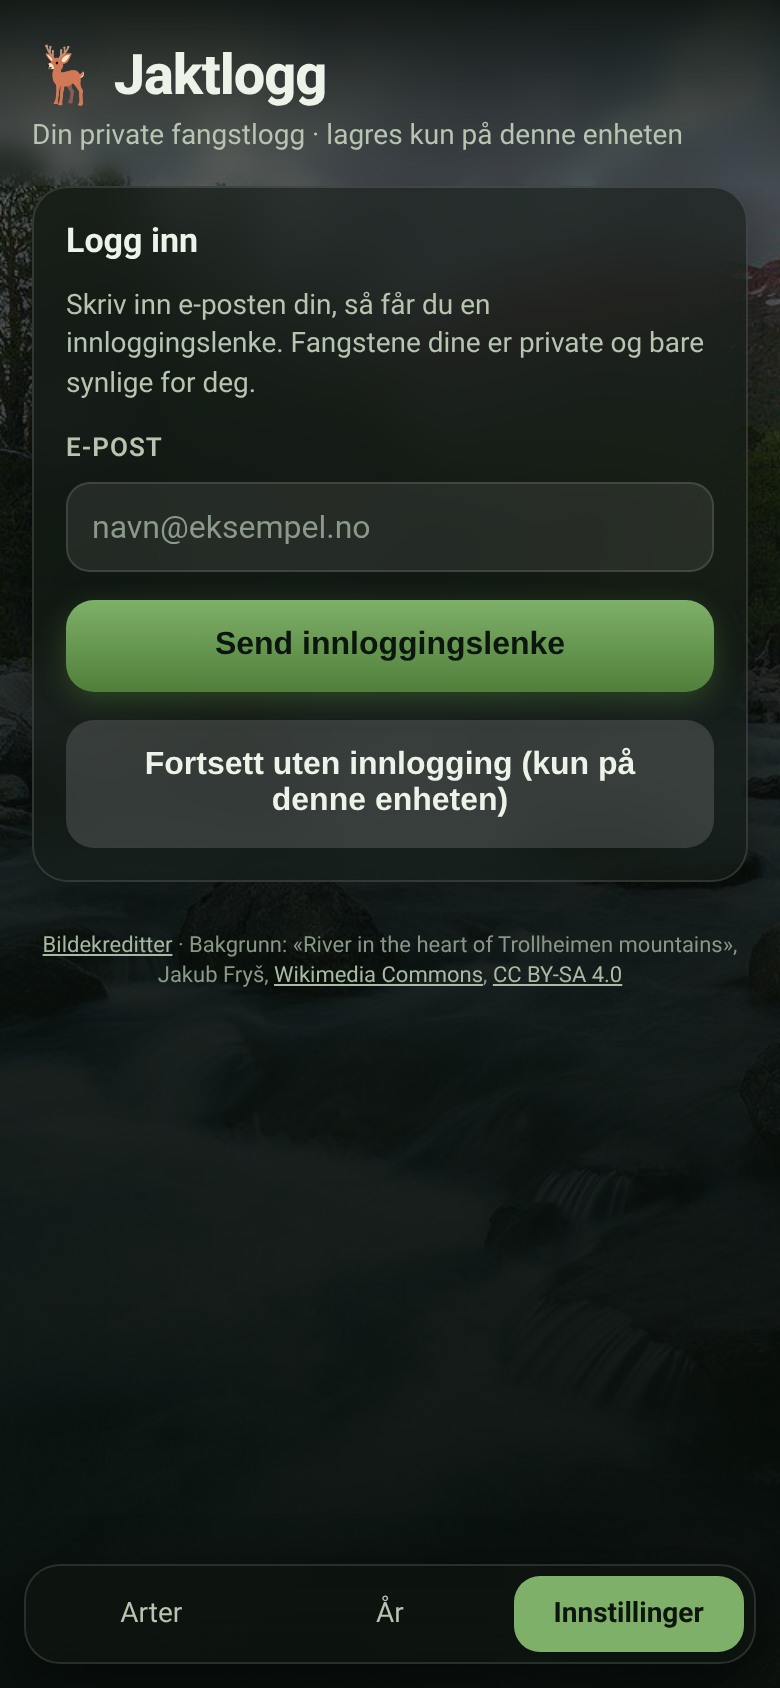
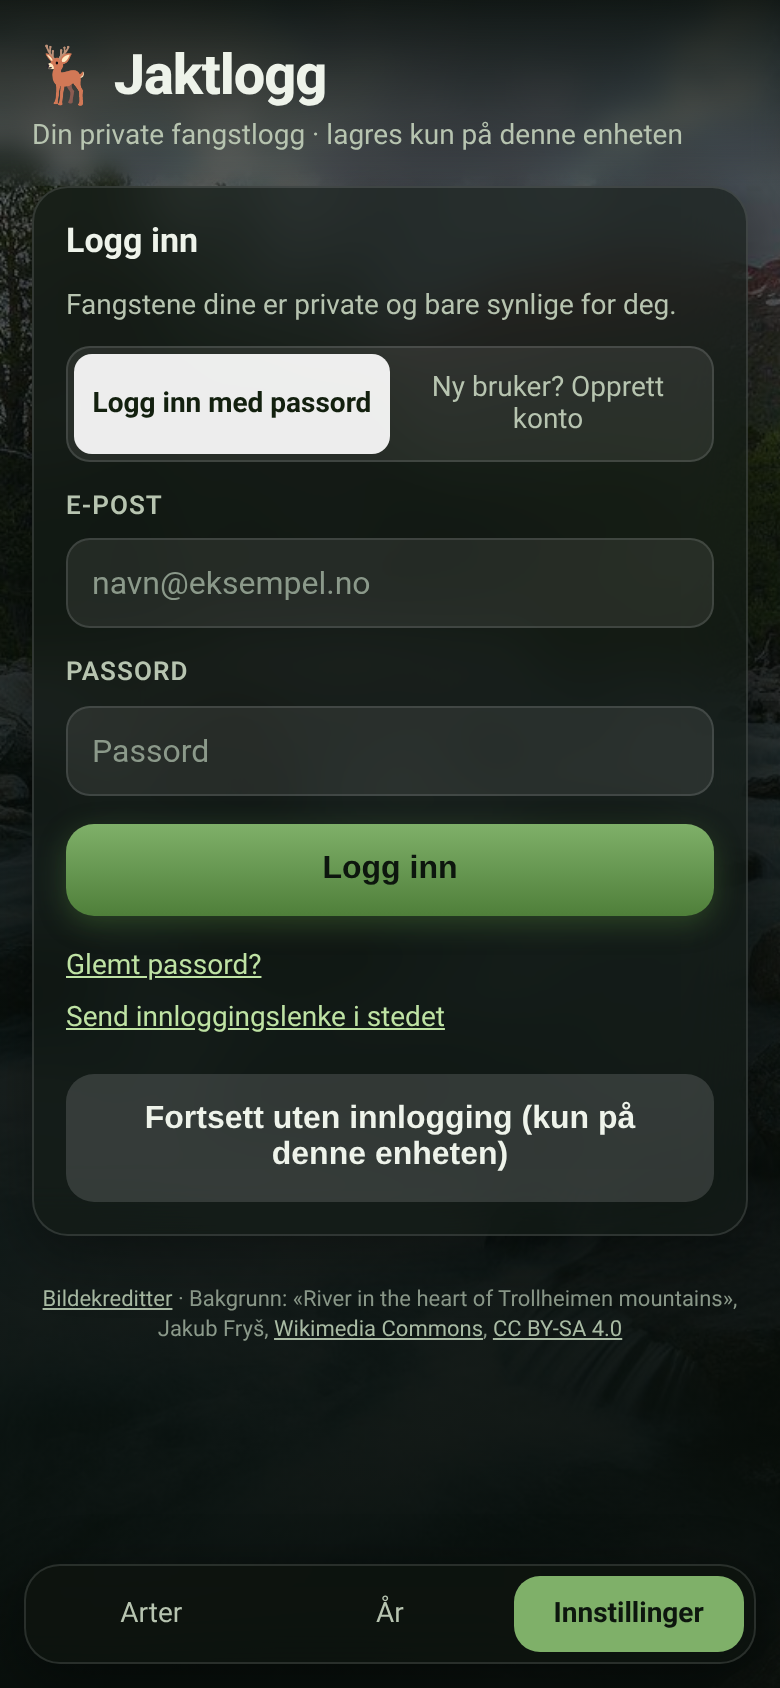
Innlogging med passord (standard), opprett konto, glemt passord/PASSWORD_RECOVERY, sett passord i Innstillinger, e-postlenke som reserve, norske feilmeldinger, URL-rensing; README og skjermbilder 10-11

Changed region(s): [[0.0308, 0.154, 0.9231, 0.7393], [0.1846, 0.7701, 0.8, 0.8009], [0.0923, 0.7701, 0.1231, 0.8009]]

diff --git a/index.html b/index.html
@@ -28,7 +28,7 @@ input[type=file]{padding:10px}input[type=date]{color-scheme:dark}
 .card div{padding:8px 10px 10px;font-size:14px}.card small{color:var(--m);display:block}.card .pin{padding:2px 0 0;font-size:12px;color:var(--g);white-space:nowrap;overflow:hidden;text-overflow:ellipsis}
 .cnt{background:var(--g);color:#0d160e;border-radius:999px;padding:1px 10px;font-size:13px;font-weight:700}
 .seg{display:flex;background:rgba(255,255,255,.08);border:1px solid var(--line);border-radius:12px;padding:3px;margin-top:12px}
-.seg button{flex:1;border:0;background:none;color:var(--m);padding:9px;border-radius:9px;font-size:14px;font-family:inherit}.seg .on{background:rgba(255,255,255,.92);color:#13200f;font-weight:700}
+.lk a{color:#bfe3a4}.seg button{flex:1;border:0;background:none;color:var(--m);padding:9px;border-radius:9px;font-size:14px;font-family:inherit}.seg .on{background:rgba(255,255,255,.92);color:#13200f;font-weight:700}
 .tabs{position:fixed;bottom:12px;left:50%;transform:translateX(-50%);width:calc(100% - 24px);max-width:366px;display:flex;gap:4px;padding:5px;background:rgba(14,20,15,.82);border:1px solid var(--line);border-radius:18px;backdrop-filter:blur(16px);box-shadow:0 8px 30px rgba(0,0,0,.45);z-index:6}
 .tabs button{flex:1;border:0;background:none;padding:11px;font-size:15px;color:var(--m);border-radius:13px;font-family:inherit}.tabs .on{color:#0d160e;background:var(--g);font-weight:700}
 .modal{position:fixed;inset:0;background:rgba(0,0,0,.6);display:none;align-items:flex-end;justify-content:center;z-index:9}.modal.open{display:flex}
@@ -193,7 +193,7 @@ let Store=LocalStore;
 async function initBackend(){const c=cfg();sb=null;sbUser=null;Store=LocalStore;if(!c)return 'local';
  try{await loadLib();sb=window.supabase.createClient(c.url,c.key,{auth:{persistSession:true,detectSessionInUrl:true}});
   const{data}=await sb.auth.getSession();sbUser=data.session&&data.session.user;
-  sb.auth.onAuthStateChange((_e,sess)=>{const was=!!sbUser;sbUser=sess&&sess.user;Store=sbUser?SupabaseStore:LocalStore;if(was!==!!sbUser)setTab(tab)});
+  sb.auth.onAuthStateChange((ev,sess)=>{const was=!!sbUser;sbUser=sess&&sess.user;Store=sbUser?SupabaseStore:LocalStore;if(ev==='PASSWORD_RECOVERY'){RECOVERY=true;setTimeout(renderRecovery,0);return}if(was!==!!sbUser&&!RECOVERY)setTab(tab)});
   if(sbUser){Store=SupabaseStore;return 'server'}return 'login'}catch(e){console.warn(e);return 'local'}}
 const modeText=()=>sbUser?`Lagres privat på din server · ${esc(sbUser.email)}`:(cfg()?'Ikke innlogget · lagres kun på denne enheten':'Din private fangstlogg · lagres kun på denne enheten');
 
@@ -205,29 +205,78 @@ async function renderSettings(){const c=cfg()||{url:'',key:''};const n=(await Lo
  <p style="color:var(--m);font-size:12px">Bruk kun den offentlige anon-nøkkelen. Lim aldri inn service_role- eller secret-nøkkelen.</p>
  <div class="maprow"><button class="btn" id="ss" style="flex:1">Lagre</button>${cfg()?'<button class="btn sec" id="sx">Koble fra</button>':''}</div><p id="smsg" style="font-size:14px;color:var(--m)"></p></div>
  <div class="panel" style="margin-top:14px"><h2 style="margin-top:0">Konto</h2><p style="color:var(--m);font-size:14px;margin:0 0 10px">${modeText()}</p>
- ${!cfg()?'<p style="font-size:14px;color:var(--m)">Legg inn Project URL og nøkkel over for å kunne logge inn.</p>':sbUser?`<button class="btn sec" id="lo">Logg ut</button>${n?`<button class="btn" id="mig" style="margin-top:8px">Flytt lokale fangster til server (${n})</button>`:''}<p id="mmsg" style="font-size:14px;color:var(--m)"></p>`:'<button class="btn" id="li">Logg inn</button>'}</div>`;
- $('ss').onclick=async()=>{const url=$('su').value.trim().replace(/\/+$/,''),key=$('sk').value.trim();
+ ${!cfg()?'<p style="font-size:14px;color:var(--m)">Legg inn Project URL og nøkkel over for å kunne logge inn.</p>':sbUser?`<form id="spf" style="margin-bottom:10px"><label>Sett passord (for innlogging uten e-postlenke)<input id="sp1" type="password" minlength="6" required autocomplete="new-password" placeholder="Nytt passord, minst 6 tegn"></label><input id="sp2" type="password" minlength="6" required autocomplete="new-password" placeholder="Gjenta passord" style="margin-top:6px"><button class="btn" style="margin-top:8px">Sett passord</button><p id="spm" style="font-size:14px;color:var(--m)"></p></form><button class="btn sec" id="lo">Logg ut</button>${n?`<button class="btn" id="mig" style="margin-top:8px">Flytt lokale fangster til server (${n})</button>`:''}<p id="mmsg" style="font-size:14px;color:var(--m)"></p>`:'<button class="btn" id="li">Logg inn</button>'}</div>`;
+ $('ss').onclick=async()=>{const url=$('su').value.trim().replace(/\/+$/,'').replace(/\/(rest|auth|storage)\/v1.*$/i,'').replace(/\/+$/,''),key=$('sk').value.trim();
   if(!/^https:\/\/.+/.test(url)||!key){$('smsg').textContent='Fyll inn både URL og nøkkel.';return}
   if(keyRole(key)==='service_role'){$('smsg').textContent='Dette er en service_role/secret-nøkkel. Den skal aldri brukes i appen. Bruk anon-nøkkelen.';return}
   localStorage.setItem(CFG_KEY,JSON.stringify({url,key}));const m=await initBackend();$('smsg').textContent=m==='local'?'Kunne ikke koble til. Sjekk URL og nøkkel.':'Lagret.';if(m==='login')renderLogin();else renderSettings()};
  if($('sx'))$('sx').onclick=async()=>{if(sb)await sb.auth.signOut().catch(()=>{});localStorage.removeItem(CFG_KEY);await initBackend();renderSettings();$('hsub').textContent=modeText()};
- if($('li'))$('li').onclick=renderLogin;
+ if($('li'))$('li').onclick=()=>renderLogin();
+ if($('spf'))$('spf').onsubmit=async ev=>{ev.preventDefault();const a=$('sp1').value;if(a.length<6)return $('spm').textContent='Passordet må ha minst 6 tegn.';if(a!==$('sp2').value)return $('spm').textContent='Passordene er ikke like.';$('spm').textContent='Lagrer …';const{error}=await sb.auth.updateUser({password:a});$('spm').textContent=error?errNo(error):'Passordet er satt. Du kan nå logge inn med e-post og passord.';if(!error)$('spf').reset()};
  if($('lo'))$('lo').onclick=async()=>{await sb.auth.signOut();sbUser=null;Store=LocalStore;renderSettings();$('hsub').textContent=modeText()};
  if($('mig'))$('mig').onclick=async()=>{if(!confirm(`Flytte ${n} lokale fangster til serveren? De slettes fra enheten når de er lastet opp.`))return;
   const list=await LocalStore.list();let ok=0;for(const e of list){try{$('mmsg').textContent=`Laster opp ${ok+1} av ${list.length} …`;await SupabaseStore.add(e);await LocalStore.delete(e.id);ok++}catch(err){$('mmsg').textContent=`Stoppet etter ${ok}: ${err.message}`;return}}
   $('mmsg').textContent=`Ferdig: ${ok} fangster flyttet.`;setTimeout(renderSettings,1200)};
  $('hsub').textContent=modeText();scrollTo(0,0)}
 
-function renderLogin(){$('view').innerHTML=`<div class="panel"><h2 style="margin-top:0">Logg inn</h2>
- <p style="color:var(--m);font-size:14px;margin:0">Skriv inn e-posten din, så får du en innloggingslenke. Fangstene dine er private og bare synlige for deg.</p>
- <form id="lf"><label>E-post<input id="em" type="email" required placeholder="navn@eksempel.no" autocomplete="email"></label>
- <button class="btn" style="margin-top:14px">Send innloggingslenke</button></form><p id="lmsg" style="font-size:14px;color:var(--m)"></p>
+const PAGE_URL=location.origin+location.pathname;
+let HASH_ERR=(()=>{const q=new URLSearchParams(location.hash.slice(1)+'&'+location.search.slice(1));const d=q.get('error_description')||q.get('error');if(d){history.replaceState(null,'',PAGE_URL)}return d?{message:d.replace(/\+/g,' '),code:q.get('error_code')||''}:null})();
+let RECOVERY=/type=recovery/.test(location.hash);
+function errNo(e){if(!e)return '';const m=((e.code||'')+' '+(e.message||e)).toLowerCase();
+ if(/rate.?limit|over_email_send_rate|too many/.test(m))return 'For mange e-poster, vent en time eller bruk passord.';
+ if(/invalid.?(login|credentials)|invalid_credentials/.test(m))return 'Feil e-post eller passord.';
+ if(/not.?confirmed|email_not_confirmed/.test(m))return 'E-posten er ikke bekreftet ennå. Trykk på lenken i bekreftelses-e-posten, eller slå av «Confirm email» i Supabase (Authentication → Providers → Email).';
+ if(/already.?(registered|exists)|user_already_exists|email_exists/.test(m))return 'Det finnes allerede en bruker med denne e-posten. Logg inn med passord, eller bruk «Glemt passord».';
+ if(/otp_expired|expired|invalid.*link|access_denied/.test(m))return 'Lenken er utløpt eller ugyldig. Logg inn med passord, eller be om en ny lenke.';
+ if(/weak|at least 6|password should/.test(m))return 'Passordet er for svakt (minst 6 tegn).';
+ if(/same_password|different from the old/.test(m))return 'Det nye passordet må være forskjellig fra det gamle.';
+ if(/signup.*disabled|signups not allowed/.test(m))return 'Nye brukere er slått av i Supabase-prosjektet.';
+ if(/failed to fetch|network/.test(m))return 'Fikk ikke kontakt med serveren. Sjekk nettet og Project URL.';
+ return 'Feil: '+(e.message||e)}
+const P=(id,t)=>`<p id="${id}" style="font-size:14px;color:var(--m)">${t||''}</p>`;
+function renderLogin(mode,msg){mode=mode||'pw';if(!msg&&HASH_ERR){msg=errNo(HASH_ERR);HASH_ERR=null}
+ const tabs=`<div class="seg" style="margin:10px 0 4px"><button type="button" id="mpw" class="${mode==='pw'?'on':''}">Logg inn med passord</button><button type="button" id="msu" class="${mode==='su'?'on':''}">Ny bruker? Opprett konto</button></div>`;
+ let body='';
+ if(mode==='pw')body=`<form id="lf"><label>E-post<input id="em" type="email" required placeholder="navn@eksempel.no" autocomplete="email"></label>
+ <label>Passord<input id="pw" type="password" required autocomplete="current-password" placeholder="Passord"></label>
+ <button class="btn" style="margin-top:14px">Logg inn</button></form>
+ <p class="lk" style="font-size:14px;margin:12px 0 0;line-height:1.9"><a href="#" id="fg">Glemt passord?</a><br><a href="#" id="ml">Send innloggingslenke i stedet</a></p>`;
+ else if(mode==='su')body=`<form id="lf"><label>E-post<input id="em" type="email" required placeholder="navn@eksempel.no" autocomplete="email"></label>
+ <label>Passord (minst 6 tegn)<input id="pw" type="password" required minlength="6" autocomplete="new-password"></label>
+ <label>Gjenta passord<input id="pw2" type="password" required minlength="6" autocomplete="new-password"></label>
+ <button class="btn" style="margin-top:14px">Opprett konto</button></form>
+ <p style="font-size:13px;color:var(--m);margin:10px 0 0">Kontoen opprettes i ditt eget Supabase-prosjekt. Er «Confirm email» på, må e-posten bekreftes én gang.</p>`;
+ else if(mode==='fg')body=`<form id="lf"><p style="font-size:14px;color:var(--m);margin:6px 0 0">Vi sender en lenke for å velge nytt passord.</p><label>E-post<input id="em" type="email" required placeholder="navn@eksempel.no" autocomplete="email"></label>
+ <button class="btn" style="margin-top:14px">Send lenke for nytt passord</button></form><p class="lk" style="font-size:14px;margin:10px 0 0"><a href="#" id="bk">← Tilbake til innlogging</a></p>`;
+ else body=`<form id="lf"><p style="font-size:14px;color:var(--m);margin:6px 0 0">Du får en innloggingslenke på e-post. Supabase begrenser hvor mange e-poster som kan sendes per time.</p><label>E-post<input id="em" type="email" required placeholder="navn@eksempel.no" autocomplete="email"></label>
+ <button class="btn" style="margin-top:14px">Send innloggingslenke</button></form><p class="lk" style="font-size:14px;margin:10px 0 0"><a href="#" id="bk">← Logg inn med passord</a></p>`;
+ $('view').innerHTML=`<div class="panel"><h2 style="margin-top:0">${mode==='su'?'Opprett konto':mode==='fg'?'Glemt passord':'Logg inn'}</h2>
+ <p style="color:var(--m);font-size:14px;margin:0">Fangstene dine er private og bare synlige for deg.</p>${mode==='pw'||mode==='su'?tabs:''}${body}${P('lmsg',msg)}
  <button class="btn sec" id="lb" style="margin-top:6px">Fortsett uten innlogging (kun på denne enheten)</button></div>`;
+ const go=(m)=>e=>{e&&e.preventDefault();renderLogin(m)};
+ if($('mpw'))$('mpw').onclick=go('pw');if($('msu'))$('msu').onclick=go('su');if($('fg'))$('fg').onclick=go('fg');if($('ml'))$('ml').onclick=go('ml');if($('bk'))$('bk').onclick=go('pw');
  $('lb').onclick=()=>setTab('arter');
- $('lf').onsubmit=async ev=>{ev.preventDefault();if(!sb){$('lmsg').textContent='Supabase er ikke satt opp under Innstillinger.';return}
-  $('lmsg').textContent='Sender …';const{error}=await sb.auth.signInWithOtp({email:$('em').value.trim(),options:{emailRedirectTo:location.origin+location.pathname}});
-  $('lmsg').textContent=error?'Feil: '+error.message:'Sjekk e-posten din og trykk på lenken for å logge inn.'};scrollTo(0,0)}
+ const say=t=>$('lmsg').textContent=t;
+ $('lf').onsubmit=async ev=>{ev.preventDefault();if(!sb){say('Supabase er ikke satt opp under Innstillinger.');return}
+  const email=$('em').value.trim(),btn=$('lf').querySelector('button');btn.disabled=true;say('Vent …');
+  try{
+   if(mode==='pw'){const{error}=await sb.auth.signInWithPassword({email,password:$('pw').value});if(error)return say(errNo(error));sbUser=(await sb.auth.getUser()).data.user;Store=SupabaseStore;$('hsub').textContent=modeText();setTab('arter')}
+   else if(mode==='su'){const pw=$('pw').value;if(pw.length<6)return say('Passordet må ha minst 6 tegn.');if(pw!==$('pw2').value)return say('Passordene er ikke like.');
+    const{data,error}=await sb.auth.signUp({email,password:pw,options:{emailRedirectTo:PAGE_URL}});if(error)return say(errNo(error));
+    if(data.session){sbUser=data.session.user;Store=SupabaseStore;$('hsub').textContent=modeText();setTab('arter')}
+    else if(data.user&&Array.isArray(data.user.identities)&&!data.user.identities.length)say(errNo({code:'user_already_exists'}));
+    else say('Kontoen er opprettet, men «Confirm email» er på i Supabase. Bekreft én gang via lenken i e-posten, og logg deretter inn med passord. For en personlig app kan du i stedet slå av «Confirm email» under Authentication → Providers → Email.')}
+   else if(mode==='fg'){const{error}=await sb.auth.resetPasswordForEmail(email,{redirectTo:PAGE_URL});say(error?errNo(error):'Sjekk e-posten din og trykk på lenken for å velge nytt passord.')}
+   else{const{error}=await sb.auth.signInWithOtp({email,options:{emailRedirectTo:PAGE_URL}});say(error?errNo(error):'Sjekk e-posten din og trykk på lenken for å logge inn.')}
+  }finally{btn.disabled=false}};scrollTo(0,0)}
+function renderRecovery(){RECOVERY=false;tab='inn';['arter','ar','inn'].forEach(x=>$('t-'+x).classList.toggle('on',x==='inn'));
+ $('view').innerHTML=`<div class="panel"><h2 style="margin-top:0">Velg nytt passord</h2><form id="rf">
+ <label>Nytt passord (minst 6 tegn)<input id="np" type="password" required minlength="6" autocomplete="new-password"></label>
+ <label>Gjenta passord<input id="np2" type="password" required minlength="6" autocomplete="new-password"></label>
+ <button class="btn" style="margin-top:14px">Lagre nytt passord</button></form>${P('rmsg')}</div>`;
+ $('rf').onsubmit=async ev=>{ev.preventDefault();const pw=$('np').value;if(pw.length<6)return $('rmsg').textContent='Passordet må ha minst 6 tegn.';if(pw!==$('np2').value)return $('rmsg').textContent='Passordene er ikke like.';
+  const{error}=await sb.auth.updateUser({password:pw});if(error)return $('rmsg').textContent=errNo(error);$('rmsg').textContent='Passordet er lagret. Du er logget inn.';setTimeout(()=>setTab('arter'),1200)};scrollTo(0,0)}
 
 $('t-inn').onclick=()=>setTab('inn');$('cr').onclick=e=>{e.preventDefault();showCredits()};
-(async()=>{await LocalStore.migrate();const m=await initBackend();$('hsub').textContent=modeText();m==='login'?(tab='inn',['arter','ar','inn'].forEach(x=>$('t-'+x).classList.toggle('on',x==='inn')),renderLogin()):renderArter()})();
+(async()=>{await LocalStore.migrate();const m=await initBackend();$('hsub').textContent=modeText();if(RECOVERY&&sbUser)return renderRecovery();if(HASH_ERR&&m!=='login'){const t=errNo(HASH_ERR);HASH_ERR=null;setTimeout(()=>alert(t),300)}m==='login'?(tab='inn',['arter','ar','inn'].forEach(x=>$('t-'+x).classList.toggle('on',x==='inn')),renderLogin()):renderArter()})();
 </script></body></html>

diff --git a/README.md b/README.md
@@ -15,12 +15,20 @@ Flere krav kommer – appen bygges videre etter hvert.
 
 Uten oppsett lagres alt kun på enheten. Vil du ha fangstene privat på en server (og på flere enheter), kan du koble til ditt eget gratis Supabase-prosjekt:
 
-1. Gå til [supabase.com](https://supabase.com), lag en gratis konto og trykk **New project**. Velg navn, passord til databasen og region (f.eks. Stockholm/Frankfurt).
-2. Åpne **SQL Editor** i prosjektet, lim inn hele innholdet i [`supabase/schema.sql`](supabase/schema.sql) og trykk **Run**. Dette lager tabellen `entries` med radnivåsikkerhet (RLS) og en privat bildebøtte `photos` der hver bruker kun når sine egne filer.
-3. Gå til **Authentication → URL Configuration**: sett **Site URL** til `https://haraldsandvik98-cpu.github.io/jaktapp/` og legg samme adresse til under **Redirect URLs**. E-post-innlogging (magic link) er på som standard under **Authentication → Providers → Email**.
-4. Gå til **Project Settings → API** (eller **API Keys**) og kopier **Project URL** og **anon / publishable key**. Bruk aldri `service_role`/secret-nøkkelen i appen. Appen avviser den.
-5. Åpne appen → **Innstillinger**, lim inn URL og nøkkel og trykk **Lagre**. Logg inn med e-post og trykk på lenken du får.
-6. Har du fangster lagret lokalt fra før, trykk **Flytt lokale fangster til server** under Innstillinger.
+1. Gå til [supabase.com](https://supabase.com), lag en gratis konto og trykk **New project**.
+2. Åpne **SQL Editor**, lim inn hele [`supabase/schema.sql`](supabase/schema.sql) og trykk **Run**. Dette lager tabellen `entries` med radnivåsikkerhet (RLS) og en privat bildebøtte `photos` der hver bruker kun når sine egne filer.
+3. **Authentication → URL Configuration:** sett **Site URL** til `https://haraldsandvik98-cpu.github.io/jaktapp/` og legg samme adresse til under **Redirect URLs** (brukes av bekreftelses-, innloggings- og «glemt passord»-lenker).
+4. *Valgfritt, anbefalt for en personlig app:* **Authentication → Providers → Email** → slå av **Confirm email**. Da kan du opprette konto med passord og være innlogget med en gang, uten e-post.
+5. **Project Settings → API** (eller **API Keys**): kopier **Project URL** (`https://xxxx.supabase.co`, appen fjerner selv `/rest/v1` o.l.) og **anon / publishable key**. Bruk aldri `service_role`/secret-nøkkelen. Appen avviser den.
+6. Appen → **Innstillinger**: lim inn URL og nøkkel og trykk **Lagre**.
+7. Innlogging:
+   - **Ny bruker? Opprett konto:** e-post + passord (minst 6 tegn).
+   - **Logg inn med passord:** standard. Gir ingen e-post, så du unngår Supabase sin grense «email rate limit exceeded».
+   - **Glemt passord?:** sender en lenke, og du velger nytt passord i appen.
+   - **Send innloggingslenke i stedet:** e-postlenke som reserve. Har du logget inn med lenke, kan du sette passord under **Innstillinger → Konto → Sett passord**.
+8. Har du fangster lagret lokalt fra før, trykk **Flytt lokale fangster til server** under Innstillinger.
+
+Supabase sin innebygde e-posttjeneste sender bare noen få e-poster i timen. Får du «For mange e-poster», vent en time eller bruk passord.
 
 Anon-nøkkelen er offentlig etter design. Det er RLS-reglene i `schema.sql` som sørger for at bare du ser dine fangster og bilder.
 
